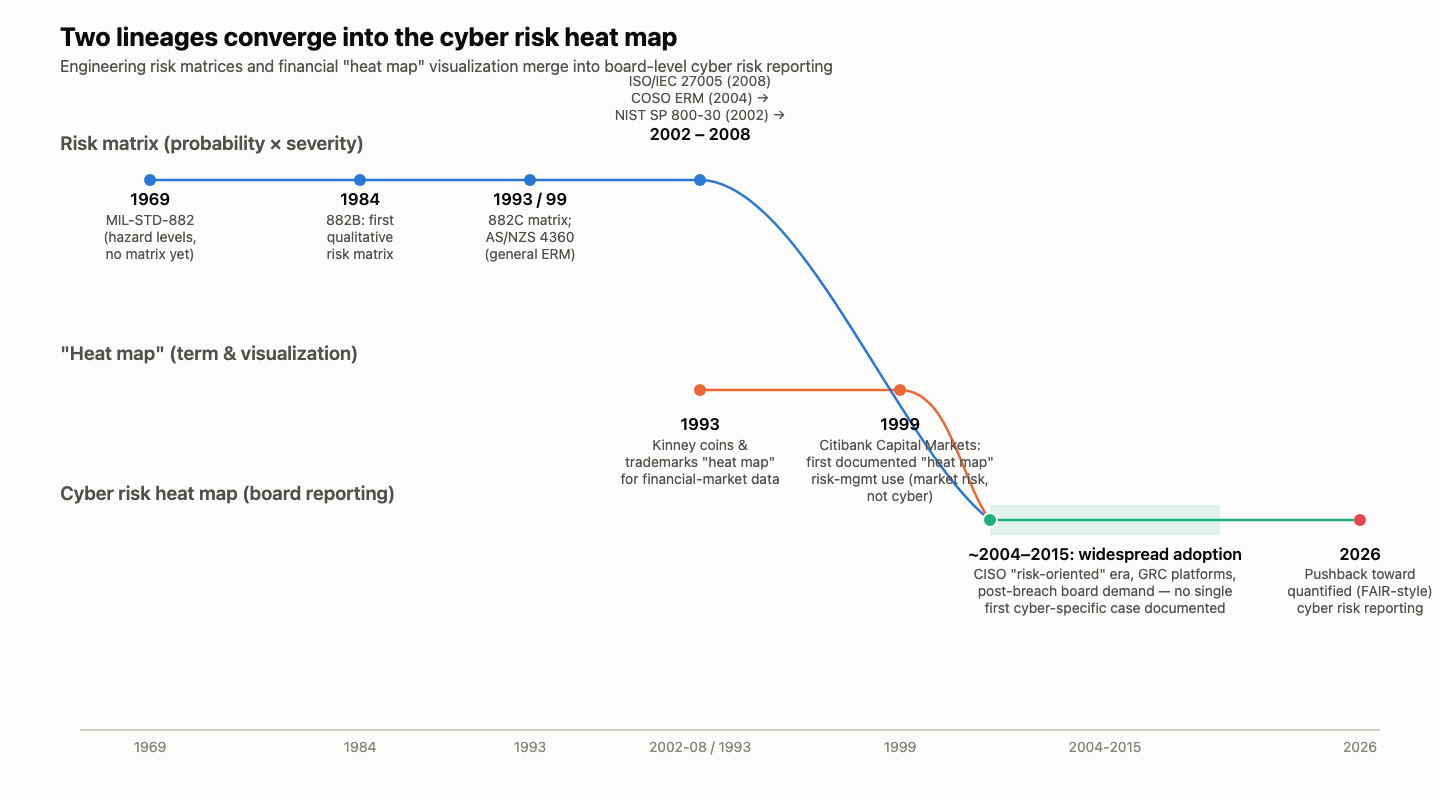
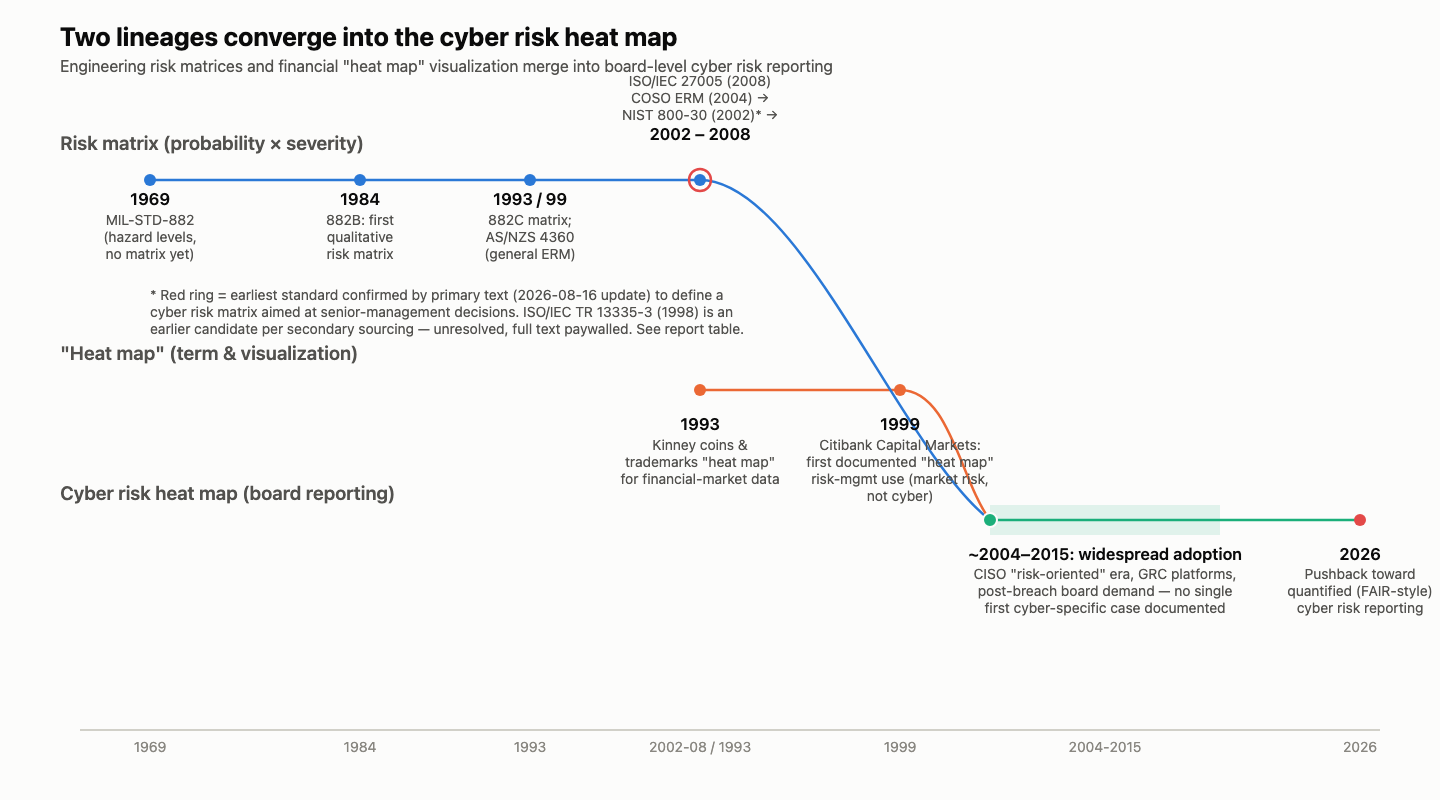
2026-08-16: Identify the first standard recommending a cybersecurity risk matrix (NIST SP 800-30, 2002) — When Did Cybersecurity Start Using the Risk Heat Map?

Changed region(s): [[0.0938, 0.3438, 0.5312, 0.4375], [0.4375, 0.125, 0.5312, 0.1562], [0.4688, 0.2188, 0.5, 0.25]]

diff --git a/reports/2026-08-16-cybersecurity-risk-heatmap-origin.md b/reports/2026-08-16-cybersecurity-risk-heatmap-origin.md
@@ -2,6 +2,8 @@
 
 **Question:** When did the cybersecurity profession start using the heat map as a way to convey risk to senior leaders? Is there a first documented case, or is the best we can do to point to a period of time when everybody was just using it?
 
+*Updated 2026-08-16 — Rick asked a follow-up narrowing the question: which specific framework or standard was first to recommend a cybersecurity risk matrix or heat map. He'd already ruled out COSO ERM (2004), hadn't checked NIST SP 800-30, and suspected CISSP certification materials might be the source. This update pass re-ran Sherlock, Euclid, Popper, and Bradlee against that narrower question; the new findings are folded into the sections below and flagged where they are.*
+
 ## Bradlee's Synthesis
 
 There is no first documented case of a cybersecurity-specific risk heat map, and this isn't a research gap — it's a structural fact about how the practice came to exist. Cybersecurity didn't invent the risk heat map; it inherited one, late, from two older lineages that had nothing to do with information security when they started.
@@ -12,7 +14,9 @@ The second lineage is the **term and the color convention** "heat map" itself. B
 
 These two threads run separately through the 1990s and converge into general enterprise risk management in the 2000s: NIST SP 800-30 (2002) gave U.S. federal information-security risk assessment a formal likelihood-by-impact matrix; COSO's 2004 Enterprise Risk Management framework is what's most commonly credited with mainstreaming the colored heat-map visual for board-level risk reporting — but across *all* enterprise risk categories, not cyber specifically; ISO/IEC 27005 (2008) then became the first ISO standard dedicated specifically to information-security risk management. Cybersecurity-specific heat maps are a downstream application of that general ERM convention, arriving once CISOs actually had board-facing reporting duties — an evolution industry veteran Todd Fitzgerald dates to a "risk-oriented" era running roughly 2004–2008.
 
-So: **no individual, team, or organization is documented as "first" to build a cyber-specific risk heat map.** The defensible claim is a period, not a point — cyber risk heat maps became standard board-reporting practice somewhere across **2004–2015**, bounded early by COSO ERM (2004) and NIST 800-30 already existing, and late by GRC platforms (RSA Archer, MetricStream, ServiceNow) templating the cyber heat map as a default deliverable, pulled along by post-breach board scrutiny (TJX 2007, Heartland 2008, RSA 2011, Target 2013). That window is this team's reasoned synthesis stitched from individually-documented events, not itself a single sourced historical claim — flagged as such throughout the report below, per Popper's challenge and Seldon's explicit resolution of it.
+**Update 2026-08-16 — the specific standard, confirmed:** Rick's follow-up asked which framework or standard was actually first to recommend a cybersecurity risk matrix — ruling out COSO ERM himself and flagging NIST SP 800-30 as unchecked. We pulled and read the original 2002 text directly (it resisted automated extraction on the first pass; converting it locally with `pdftotext` got a clean read). It confirms, in the standard's own words: Table 3-6, "Risk-Level Matrix," a 3×3 (extensible to 4×4 or 5×5) likelihood-by-impact grid, and Section 3.9 states plainly that the resulting risk assessment report "is a management report that helps senior management, the mission owners, make decisions" — explicit senior-leadership framing, not just an internal analyst worksheet. That makes **NIST SP 800-30, published July 2002**, the earliest standard this team can primary-source-confirm as both defining a cybersecurity risk matrix *and* explicitly directing it at senior-management decision-making. We also checked backward and ruled out two earlier NIST candidates by reading them directly: FIPS 65 (1979) has a matrix, but it's a threat-by-safeguard cost/benefit worksheet for choosing controls, not a probability-by-impact risk matrix, and it isn't framed as a leadership-communication tool; NIST SP 800-12 (1995) discusses likelihood and impact as separate concepts but contains no combined matrix at all. Your CISSP hunch didn't pan out on the evidence available — we found no dated source pinning when a risk matrix entered the CISSP Common Body of Knowledge specifically, so it can't be confirmed or ruled out, only left unresolved. One earlier candidate remains open: secondary academic sources describe ISO/IEC TR 13335-3 (1998) — four years before NIST 800-30 — as covering "matrix" and "ranking matrix" qualitative risk-analysis techniques, but the actual document is paywalled and we could only access its table of contents, not the body text, so this could not be confirmed or ruled out either. Popper's re-review of this finding, and Seldon's resolution of it, are below.
+
+So: **no individual, team, or organization is documented as "first" to build a cyber-specific risk heat map** — that finding from the original report stands. What's new is narrower and confirmed: NIST SP 800-30 (2002) is the earliest *standard* on record, verified by primary text, to prescribe one and aim it at leadership. The defensible claim is a period, not a point — cyber risk heat maps became standard board-reporting practice somewhere across **2004–2015**, bounded early by COSO ERM (2004) and NIST 800-30 already existing, and late by GRC platforms (RSA Archer, MetricStream, ServiceNow) templating the cyber heat map as a default deliverable, pulled along by post-breach board scrutiny (TJX 2007, Heartland 2008, RSA 2011, Target 2013). That window is this team's reasoned synthesis stitched from individually-documented events, not itself a single sourced historical claim — flagged as such throughout the report below, per Popper's challenge and Seldon's explicit resolution of it.
 
 One durable finding for practitioners: the report from a 2008 peer-reviewed paper (Cox, *"What's Wrong with Risk Matrices?"*) that the matrices these heat maps are built on can validly compare fewer than 1 in 10 randomly chosen risk pairs — a critique now old enough to vote, and still unresolved in practice — is worth knowing before leaning on one in front of your own board.
 
@@ -29,9 +33,17 @@ Neither the artifact library (`nexus-artifacts`) nor prior Nexus reports (`The-N
 **Risk matrix lineage (engineering / general risk management):**
 - [Cox, L.A. (Tony), "What's Wrong with Risk Matrices?", *Risk Analysis* 28(2), 2008](https://onlinelibrary.wiley.com/doi/10.1111/j.1539-6924.2008.01030.x) — peer-reviewed critique; documents that national/international standards (MIL-STD-882C, AS/NZS 4360:1999) stimulated broad organizational adoption of risk matrices; shows matrices can correctly rank fewer than 10% of randomly chosen risk pairs and can be "worse than useless" under negatively correlated frequency/severity.
 - ["Evolution of MIL-STD-882E," Bob McAllister, USAF, NDIA presentation](https://ndia.dtic.mil/wp-content/uploads/2005/systems/wednesday/mcallister.pdf) — primary timeline for the risk-matrix's appearance inside the standard: 882 (1969, hazard levels, no matrix) → 882A (1977, no matrix) → 882B (1984/1987, qualitative matrix added) → 882C (1993/1996, qualitative + quantitative matrix).
-- [NIST Special Publication 800-30, "Risk Management Guide for Information Technology Systems" (2002), National Archives copy](https://www.archives.gov/files/era/recompete/sp800-30.pdf) — the first NIST guidance to formalize a likelihood-by-impact risk-level matrix for federal IT/information-security risk assessment. (Note: the original PDF's text layer could not be reliably extracted by our tooling; secondary sources consistently describe the matrix's High/Medium/Low structure but none confirm whether the 2002 original used color-coding — flagged as an evidentiary gap below.)
+- [NIST Special Publication 800-30, "Risk Management Guide for Information Technology Systems" (July 2002), alternate full-text copy](https://csrc.nist.rip/library/alt-SP800-30.pdf) — **primary text confirmed 2026-08-16** via local `pdftotext` extraction (the tooling's own PDF reader couldn't parse it directly): Section 3.7.1 / Table 3-6, "Risk-Level Matrix," a 3×3 likelihood-by-impact grid (extensible to 4×4/5×5); Section 3.9 states the resulting risk assessment report "is a management report that helps senior management, the mission owners, make decisions" — explicit senior-leadership framing. No mention of color-coding found in the text. Earliest standard this team can confirm by primary text as both defining a cyber risk matrix and aiming it at leadership.
 - [ISO/IEC 27005:2008, "Information technology — Security techniques — Information security risk management," ISO](https://www.iso.org/standard/42107.html) — first ISO standard dedicated specifically to information-security risk management methodology; published June 2008.
-- COSO, *Enterprise Risk Management — Integrated Framework* (2004) — widely credited (via secondary sourcing, e.g. [ERM Academy's COSO ERM overview](https://www.erm-academy.org/risk-management-knowledge/coso-erm-framework/)) with mainstreaming heat-map-style risk visualization for board reporting across all enterprise risk categories, not cyber-specific.
+- COSO, *Enterprise Risk Management — Integrated Framework* (2004) — widely credited (via secondary sourcing, e.g. [ERM Academy's COSO ERM overview](https://www.erm-academy.org/risk-management-knowledge/coso-erm-framework/)) with mainstreaming heat-map-style risk visualization for board reporting across all enterprise risk categories, not cyber-specific. Ruled out by Rick himself as the answer to "which standard was first" before this update pass began.
+
+**Earlier candidates checked and ruled out or left unresolved (added 2026-08-16):**
+- [NIST CSRC, "Enhancing Risk Management" (NIST cybersecurity history chapter)](https://csrc.nist.gov/nist-cyber-history/risk-management/chapter) — NIST's own historical account; covers FIPS 31 and FIPS 65 below, contains no mention of a risk matrix or heat map prior to SP 800-30.
+- [FIPS 31, "Guidelines for Automatic Data Processing Physical Security and Risk Management" (1974)](https://csrc.nist.gov/pubs/fips/31/final) — earliest federal ADP risk-management guideline; per the NIST history chapter, addresses physical security planning and risk analysis generally, no matrix documented.
+- [FIPS 65, "Guideline for Automatic Data Processing Risk Analysis" (1979), full text](https://nvlpubs.nist.gov/nistpubs/Legacy/FIPS/fipspub65.pdf) — builds on Robert H. Courtney Jr.'s (IBM) Annual Loss Expectancy method; does contain a matrix, but it's threats-by-safeguards with cost/benefit figures in each cell (a control-selection worksheet), not a probability-by-impact risk matrix, and it isn't framed as a leadership-communication tool. **Ruled out** as an answer to Rick's question on both counts.
+- [NIST SP 800-12, "An Introduction to Computer Security: The NIST Handbook" (1995), Chapter 7](https://csrc.nist.rip/publications/nistpubs/800-12/800-12-html/chapter7.html) — confirmed by direct read: discusses likelihood assessment and consequence assessment as separate components; **no combined matrix present**. Rules out 1995 as an earlier NIST date.
+- ISO/IEC TR 13335-3:1998, "Guidelines for the management of IT Security — Techniques for the management of IT Security" — **unresolved, not ruled out.** Secondary academic sourcing ([research paper via Academia.edu/ResearchGate on NIST vs. ISO/IEC 27k risk management](https://www.academia.edu/105785005/Risk_Management_in_Nist_and_Iso_Iec_27K_Information_Security_Management_Standards_Family_A_Brief_Analysis)) states Part 3 "describes qualitative risk analysis techniques including questionnaire, Delphi, matrix, ranking matrix, fuzzy, and tree analysis approaches" — four years before NIST SP 800-30. The document itself is paywalled; only its table of contents (via an [iTeh Standards preview](https://cdn.standards.iteh.ai/samples/21756/bf6e0b103cb449b495fc77000bd1a537/ISO-IEC-TR-13335-3-1998.pdf)) was accessible, confirming "9.3.7 Assessment of Risks" as the relevant section but not its body text. **Flagged as an open lead for Rick, not a confirmed earlier answer.**
+- CISSP / (ISC)² Common Body of Knowledge — no dated primary or secondary source found pinning when a risk matrix specifically entered CISSP exam or reference materials (the *Information Security Management Handbook*, the long-standing CBK reference edited by Tipton & Krause, has been published since 1993, but we found no dating of *when* a risk-matrix technique appears in its content across editions). **Rick's suspicion could not be confirmed or ruled out** — left as a genuine unknown rather than forced either way.
 
 **"Heat map" term & visualization origin:**
 - [Wikipedia, "Cormac Kinney"](https://en.wikipedia.org/wiki/Cormac_Kinney) — Kinney coined and trademarked "heat map" in 1993 (USPTO registration #75263259, filed Sept. 1, 1993) for real-time financial-market visualization software, via NeoVision Hypersystems (founded 1993 with Marc Graham); Citibank's global capital markets division used Kinney's design for a risk-management application in 1999. Underlying citations per the Wikipedia article: Forbes (Silvia Sansoni, "Hot Stuff," May 17, 1999), Pittsburgh Business Times (Patty Tascarella, Nov. 14, 1994), Waters Magazine (Dianne Morrison, "A Picture Is Worth A Thousand Numbers," Nov. 27, 1995).
@@ -57,6 +69,8 @@ These two lineages converge into general enterprise risk management through the 
 
 Applying a strict first-principles standard — is there a specific named individual, team, or organization documented as the first to build a colored probability-by-impact grid *specifically to convey cybersecurity risk to senior leadership* — the answer is no. The evidentiary trail shows borrowing, not invention: cybersecurity's risk heat map is a downstream adoption of a general ERM visual convention, applied to information-security content once information security had (a) its own risk-assessment methodology to plug into the matrix (NIST 800-30, ISO 27005) and (b) CISOs who were actually being asked to report to boards at all — an evolution Fitzgerald's framework dates to a "risk-oriented" era running roughly 2004–2008.
 
+**Update 2026-08-16 — separating "first case" from "first standard."** Rick's follow-up sharpens the original question into one with a real answer: not "who first built one" (still unanswerable) but "which framework first *recommended* one." Read on its own terms, that question has a primary-source-confirmed answer: **NIST SP 800-30 (July 2002)**, Table 3-6, is the earliest information-security standard this team can verify — by reading the actual 2002 text, not a secondary summary — as (a) defining a probability-by-impact risk matrix and (b) explicitly stating its output is meant for senior management's decisions (Section 3.9: a risk assessment report "helps senior management, the mission owners, make decisions"). Working backward through NIST's own risk-management lineage rules out earlier NIST candidates on the same two criteria: FIPS 65 (1979) has *a* matrix, but it's a threat-by-safeguard cost/benefit worksheet, not a probability-by-impact grid, and it targets analysts choosing controls, not leadership; NIST SP 800-12 (1995) discusses likelihood and impact only as separate ideas, with no matrix at all. That rules out two plausible earlier dates and leaves 2002 standing as the confirmed floor within NIST's lineage — though not necessarily the global floor, since ISO/IEC TR 13335-3 (1998) is credibly reported, in secondary academic sourcing, to describe matrix-based qualitative risk-analysis techniques four years earlier, and that document's own text is paywalled and couldn't be checked directly. Rick's CISSP hypothesis has no dated evidence either way and stays an open question, not a confirmed lead.
+
 **First-principles answer:** there is no first documented case of a cybersecurity-specific risk heat map. The defensible claim is a period of adoption, not a point of invention — reasoned as falling somewhere across 2004–2015, bounded early by COSO ERM (2004) and NIST 800-30 already being in place, and late by GRC platforms (RSA Archer, MetricStream, ServiceNow) templating the cyber heat map as a default deliverable amid post-breach board scrutiny (TJX 2007, Heartland 2008, RSA 2011, Target 2013).
 
 ## Popper — Where This Could Be Wrong
@@ -67,7 +81,11 @@ Devil's advocate, against the draft above:
 
 2. **The Katz/Kinney "coincidence" shouldn't be in the report at all, or should be stated far more cautiously.** Even flagged as coincidental, juxtaposing Steve Katz (Citicorp CISO, 1995) with Kinney's Citibank capital-markets heat map (1999) invites the reader to draw a connection that no source supports. Two different Citi entities, two different risk domains, four years apart — the risk is that a reader skims past "coincidence" and remembers "Citi" and "heat map" and "CISO" as related. This is exactly the kind of pattern-matching a first-principles review should refuse to indulge, even while flagging it.
 
-3. **NIST SP 800-30 (2002) is being used as evidence for the wrong claim.** The Sources section admits the original document's text couldn't be verified, and every secondary source describes a "risk-level matrix" (High/Medium/Low) without confirming color-coding. That means 800-30 is, at best, evidence that the *matrix* concept entered federal InfoSec practice in 2002 — not evidence that the *heat map* (colored) convention did. Euclid's draft doesn't clearly separate these two claims, and treating 800-30 as an early "heat map" milestone conflates the two lineages the draft otherwise correctly keeps separate.
+3. **NIST SP 800-30 (2002) is being used as evidence for the wrong claim.** *(Original objection.)* The Sources section admits the original document's text couldn't be verified, and every secondary source describes a "risk-level matrix" (High/Medium/Low) without confirming color-coding. That means 800-30 is, at best, evidence that the *matrix* concept entered federal InfoSec practice in 2002 — not evidence that the *heat map* (colored) convention did. Euclid's draft doesn't clearly separate these two claims, and treating 800-30 as an early "heat map" milestone conflates the two lineages the draft otherwise correctly keeps separate.
+
+   **3a. Re-reviewed 2026-08-16, following Rick's follow-up question.** The underlying evidentiary gap this objection identified is now closed — the 2002 text has been read directly, and it confirms both the matrix (Table 3-6) and the senior-management framing (Section 3.9). Objection 3 as originally stated no longer holds; a prior resolution shouldn't just be silently marked "still fine," so here is the re-review: the color-coding half of the objection still stands unchanged — the primary text still shows no mention of color at all, and that gap is not resolved, just no longer conflated with the framing question.
+
+3b. **New objection, raised by this update:** letting "NIST SP 800-30 (2002)" stand as *the* answer to "which standard was first" overclaims what was actually established. What was established is narrower: it's the earliest standard *within NIST's own lineage* that this team could verify by primary text — verified precisely because NIST's older documents (FIPS 65, SP 800-12) are freely available and NIST's newer one wasn't hard to get past a PDF-parsing hiccup. ISO/IEC TR 13335-3 (1998) is not a vague hypothetical like the "some vendor whitepaper might exist" concern in objection 4 below — it's a specific, dated, named document that secondary academic sourcing directly claims contains "matrix, ranking matrix" risk-analysis techniques, four years earlier, and it wasn't verified only because it sits behind a paywall, not because there's reason to doubt the secondary source. A report that lets "2002, confirmed" read as "the answer" when a concrete, plausible 1998 candidate remains genuinely open is overclaiming in the same way objection 4 already warned against — just with a much stronger candidate this time.
 
 4. **"No first documented case exists" overclaims a negative.** What was actually established is "no first documented case surfaced in this research" — a search process bounded by web search/fetch tools, with no access to paywalled vendor archives, pre-2000s trade press, conference proceedings, or internal GRC-vendor documentation. A specific early-2000s vendor whitepaper (Gartner, an early GRC player like BindView or ISS, or a Big 4 audit-advisory deck) could exist and simply not be indexed or reachable by this methodology. The report should not assert a global negative it can't actually support.
 
@@ -82,6 +100,8 @@ Each of Popper's five objections is addressed directly, not just acknowledged:
 2. **Resolved by softening.** The Katz/Kinney juxtaposition is retained only because it's a genuinely interesting footnote a future researcher might otherwise stumble on and wrongly assume was already investigated — but it's now framed strictly as an unremarked coincidence of corporate lineage, with no causal or evidentiary link implied, exactly as Popper's objection requires.
 
 3. **Resolved by an explicit gap, not a guess.** The report does not claim NIST 800-30 (2002) was or wasn't color-coded. It states plainly that this is an evidentiary gap in our research (the original PDF's text layer wasn't machine-readable, and no secondary source settles the question), and it keeps the "risk matrix" claim (yes, 2002) analytically separate from the "heat map / color convention" claim (no evidence either way for 800-30) rather than letting one imply the other.
+
+   **3a/3b resolved 2026-08-16.** The matrix half of objection 3 is now closed by direct primary-text confirmation (Table 3-6; Section 3.9's senior-management framing) — that part of the report can now state a documented fact, not an inference. The color-coding half stays open exactly as before; nothing in this update changes it. On 3b: agreed without qualification, and corrected throughout this update — every statement of "NIST SP 800-30, 2002" in this report is now scoped as "the earliest standard we can confirm by primary text," never as "the first standard," with ISO/IEC TR 13335-3 (1998) carried alongside it, by name, as an open and plausible earlier candidate rather than a footnote. That's the honest shape of what a bounded research pass with a paywall in front of it can actually establish.
 
 4. **Resolved by scoping the claim to the method.** Every version of "no first documented case" in this report now carries the qualifier "surfaced by this research" or equivalent, with the methodology's limits (web search/fetch tools only; no paywalled archives, pre-2000s trade press, or vendor-internal documents) stated in Popper's objection and not contradicted elsewhere.
 
@@ -100,11 +120,14 @@ The chronology below is genuine tabular data — dates, events, and what kind of
 | Year | Event | Lineage | Basis |
 |---|---|---|---|
 | 1969 | MIL-STD-882 published — hazard severity levels defined, no matrix | Risk matrix | Documented |
+| 1974 | FIPS 31 — earliest federal ADP risk-management guideline; physical-security planning and risk analysis, no matrix documented | Risk matrix (precursor) | Documented |
+| 1979 | FIPS 65 — Courtney's ALE method; contains a threat-by-safeguard cost/benefit matrix, but not a probability × impact grid, and not framed for leadership | Risk matrix (ruled out) | Documented — **ruled out** as answer to "first standard" |
 | 1984 | MIL-STD-882B — first qualitative risk matrix (appendix) | Risk matrix | Documented |
 | 1993 | MIL-STD-882C — qualitative + quantitative matrix; Cormac Kinney coins & trademarks "heat map" for financial-market data (NeoVision Hypersystems) | Both (separately) | Documented |
-| 1995 | Steve Katz appointed world's first CISO, Citicorp | CISO role | Documented |
+| 1995 | Steve Katz appointed world's first CISO, Citicorp; NIST SP 800-12 discusses likelihood/impact separately, no combined matrix | CISO role / Risk matrix (ruled out) | Documented — SP 800-12 **ruled out** |
+| 1998 | ISO/IEC TR 13335-3 — secondary sources describe "matrix, ranking matrix" qualitative risk-analysis techniques | Risk matrix (InfoSec) | **Unresolved** — full text paywalled, not confirmed or ruled out |
 | 1999 | AS/NZS 4360 general risk-management standard; Citibank global capital markets uses a Kinney-style heat map for a risk-management application (market risk, not cyber) | Risk matrix / Heat map | Documented |
-| 2002 | NIST SP 800-30 introduces a likelihood × impact risk-level matrix for federal IT/InfoSec risk assessment | Risk matrix → InfoSec | Documented (color-coding unconfirmed) |
+| 2002 | **NIST SP 800-30** — Table 3-6 "Risk-Level Matrix" (likelihood × impact); §3.9 explicitly frames the output as a management report for senior-management decisions | Risk matrix → InfoSec | **Documented — primary text confirmed 2026-08-16.** Earliest standard we could verify directly; color-coding still unconfirmed |
 | 2004 | COSO ERM Integrated Framework — heat-map visual mainstreamed for board risk reporting, all risk types | Convergence | Documented |
 | 2008 | ISO/IEC 27005 — first ISO standard dedicated to information-security risk management; Cox publishes "What's Wrong with Risk Matrices?" | InfoSec / Critique | Documented |
 | ~2004–2015 | Cyber-specific risk heat maps become standard board-reporting practice, pulled along by GRC platforms and post-breach scrutiny (TJX 2007, Heartland 2008, RSA 2011, Target 2013) | Convergence | **Reasoned inference**, not a single sourced claim |
@@ -124,6 +147,7 @@ Alexandria's closing evaluation of what each stage flagged, plus her own judgmen
 
 1. **Cox (2008), "What's Wrong with Risk Matrices?" — recommend a fact-sheet artifact.** Sherlock and Popper both flagged this independently. It's a foundational, highly-cited (800+ citations) critique directly relevant to any future Nexus report that leans on a risk matrix or heat map for a recommendation — the kind of durable, cross-report reference the library's existing `evidence-tier-framework.md` and `campaign-vs-actor-attribution.md` fact sheets already serve as models for. Category: `fact-sheets`. The artifact would summarize the paper's argument and citation, not reproduce the copyrighted paper itself. **Status: recommended, awaiting Rick's decision — not yet submitted.**
 2. **"Two lineages of the risk heat map" origin finding — recommend an essay artifact.** Euclid flagged this as reusable beyond this one report; the `essays` category in the library is currently empty apart from its placeholder, so this would seed it. The finding (risk matrix from military system-safety engineering; "heat map" term/visual from 1993 financial-data software; convergence into general ERM in the 2000s) is exactly the kind of first-principles background a future report on risk communication, GRC tooling, or cyber-risk quantification could reuse without re-deriving it. Category: `essays`. **Status: recommended, awaiting Rick's decision — not yet submitted.**
+3. **Risk-matrix standards timeline (FIPS 31/1974 → FIPS 65/1979 → MIL-STD-882B/1984 → MIL-STD-882C/1993 → NIST SP 800-12/1995 → ISO/IEC TR 13335-3/1998 → NIST SP 800-30/2002 → ISO/IEC 27005/2008) — recommend a fact-sheet artifact.** Added by this update pass, flagged by Sherlock and Euclid. This is now a primary-source-checked, dated lineage of which standards do and don't contain a risk matrix, including two documents specifically ruled out (FIPS 65, SP 800-12) and one left genuinely open (ISO/IEC TR 13335-3) — exactly the kind of groundwork that's expensive to redo and cheap to reuse the next time a Nexus report needs to date a security-standard's provenance. Category: `fact-sheets`. **Status: recommended, awaiting Rick's decision — not yet submitted.**
 
 Nothing else was flagged as worth archiving. Per standing process, no PR has been opened against `nexus-artifacts` — that only happens if Rick says to proceed via the `nexus-artifact-submit` skill.
 
